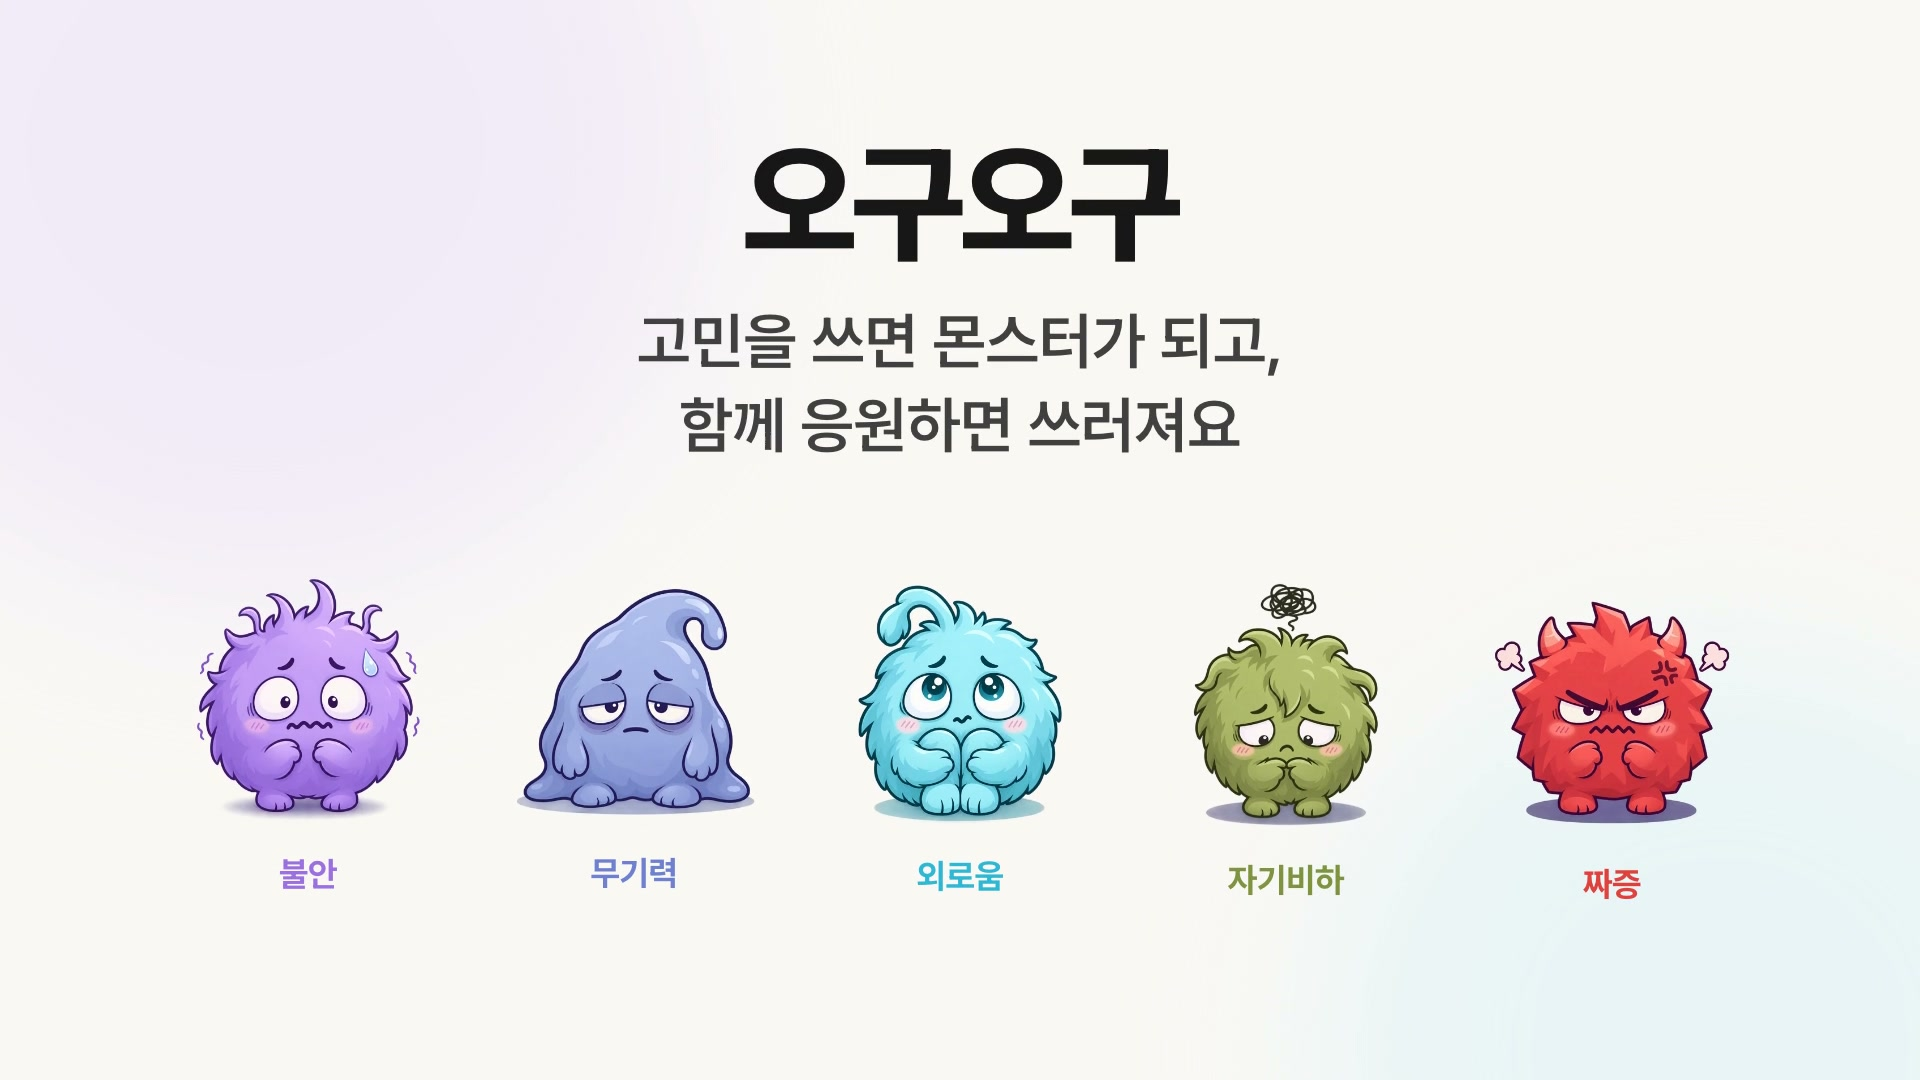
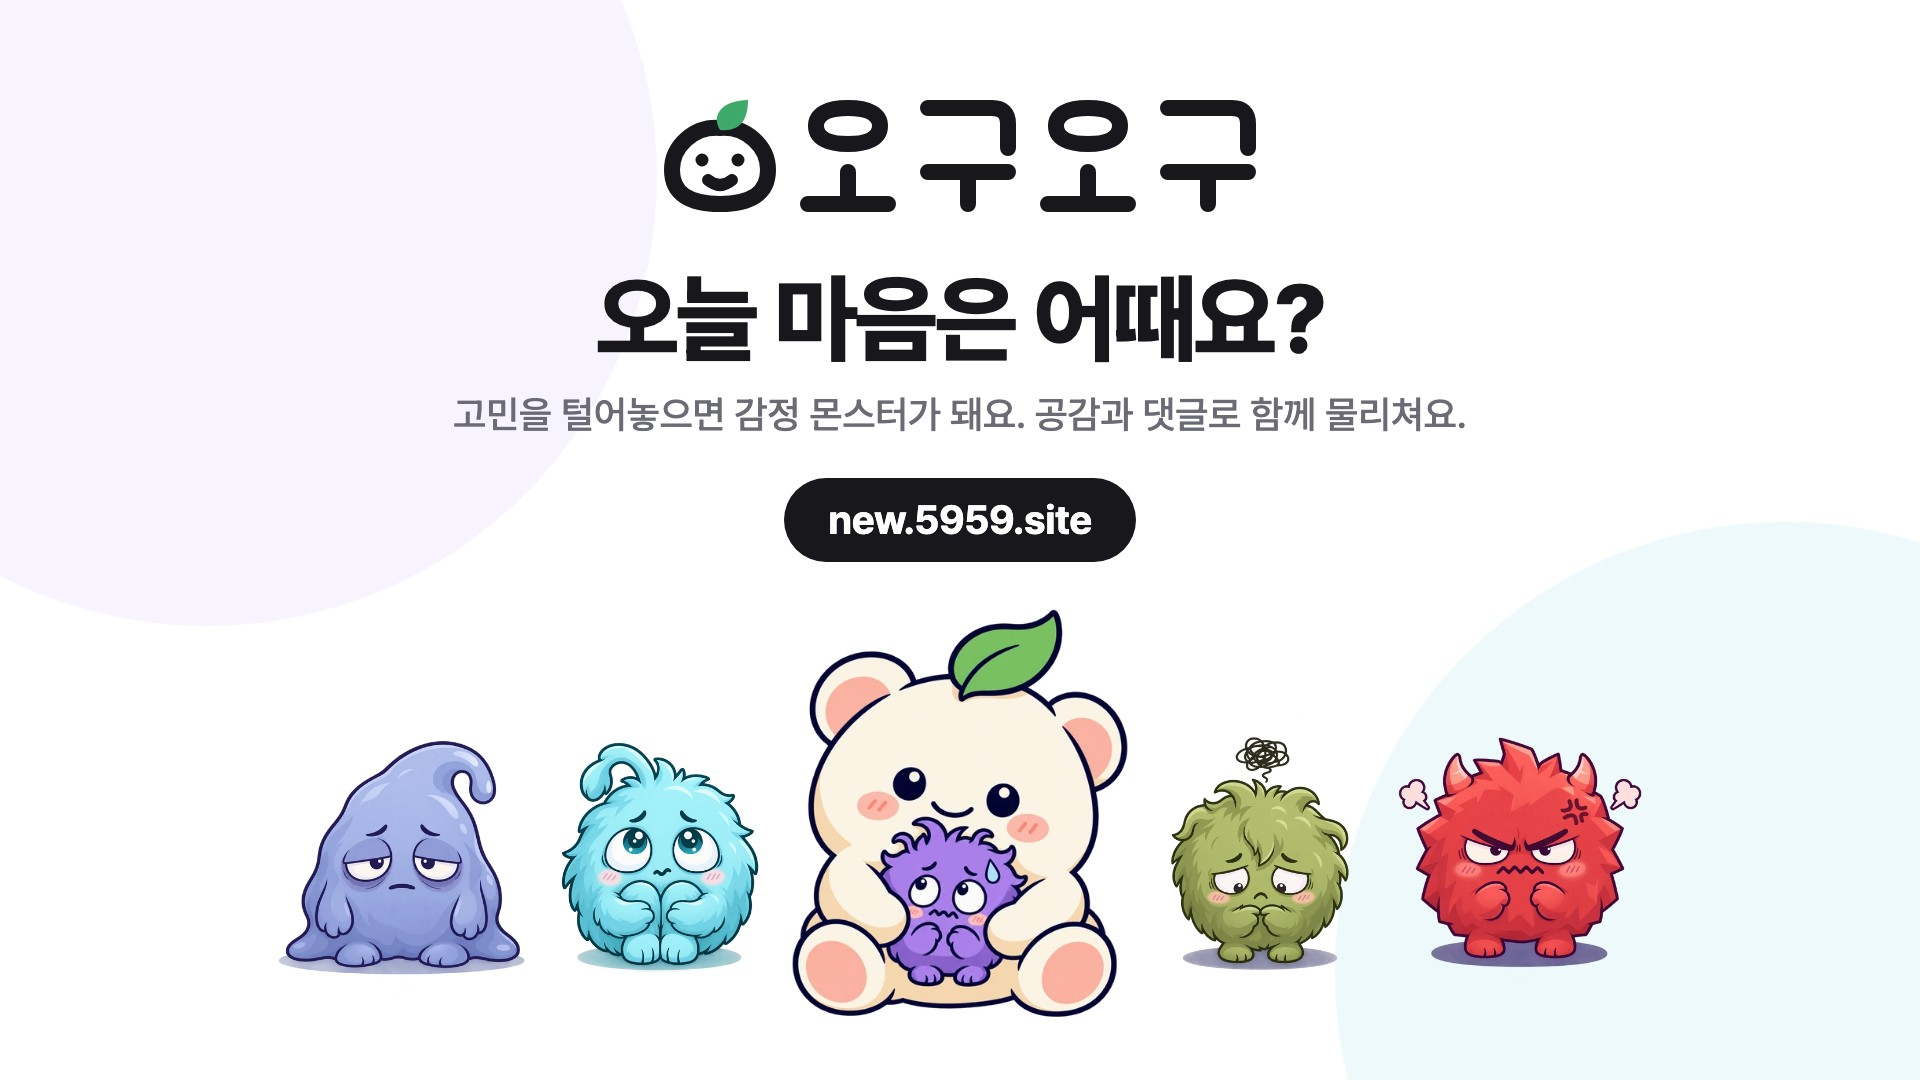
docs: README에 새 주소와 새 썸네일, 그동안 더한 기능을 적는다 (#77)
* docs: README에 새 주소와 새 썸네일, 그동안 더한 기능을 적는다

- 썸네일을 새 로고와 오구, new.5959.site가 보이는 그림으로 바꾸고 서비스로 잇는다
- AI 친구(009), 몬스터 도감(010), 비회원 둘러보기(011)를 기능 표에 더한다
- 배포 구성(웹은 Cloud Run, API와 DB는 Compute Engine)을 적고 GCP 문서로 잇는다
- 모듈 수와 스펙 범위를 지금 코드에 맞춘다

* docs: 소개 영상을 새 로고와 새 주소가 나오는 것으로 바꾼다

---------

Changed region(s): [[0.0938, 0.0917, 0.9062, 0.9472]]

diff --git a/README.md b/README.md
@@ -1,6 +1,6 @@
 <div align="center">
 
-<img src="docs/assets/intro/brag.jpg" alt="오구오구" width="100%" />
+<a href="https://new.5959.site"><img src="docs/assets/intro/brag.jpg" alt="오구오구. 오늘 마음은 어때요? new.5959.site" width="100%" /></a>
 
 # 🐾 오구오구 (5959)
 
@@ -9,6 +9,7 @@
 혼자 삼키기 어려운 고민을 익명으로 남기면<br>
 AI가 감정을 읽어 몬스터로 만들고, 함께 응원하며 그 몬스터를 물리쳐요.
 
+[<img src="https://img.shields.io/badge/지금_써_보기-new.5959.site-17171c?style=flat" />](https://new.5959.site)
 [<img src="https://img.shields.io/badge/원본_Backend-DDD--13--WEBBB__BE-6DB33F?style=flat&logo=springboot&logoColor=white" />](https://github.com/DDD-Community/DDD-13-WEBBB_BE)
 [<img src="https://img.shields.io/badge/원본_Frontend-DDD--13--WEBBB--FE-000000?style=flat&logo=nextdotjs&logoColor=white" />](https://github.com/DDD-Community/DDD-13-WEBBB-FE)
 
@@ -18,9 +19,9 @@ AI가 감정을 읽어 몬스터로 만들고, 함께 응원하며 그 몬스터
 
 ## 🎬 소개 영상
 
-https://github.com/user-attachments/assets/66e48d11-21bb-498c-986b-3680f20c1de7
+https://github.com/user-attachments/assets/f29e4b90-98a0-4528-bc08-66e4713ca181
 
-고민 한 줄이 불안 몬스터가 되고, 공감과 댓글이 HP를 깎고, 모두가 보스를 함께 물리치고, 월요일에 편지가 오기까지를 21초에 담았습니다.
+고민 한 줄이 불안 몬스터가 되고, 공감과 댓글이 HP를 깎아 쓰러뜨리고, 모두가 보스 한 마리를 함께 물리치기까지를 20초에 담았습니다.
 
 <br>
 
@@ -32,7 +33,8 @@ https://github.com/user-attachments/assets/66e48d11-21bb-498c-986b-3680f20c1de7
 
 > 👤 **[장현호](https://github.com/hyunolike)** (DDD 13기 WEBBB 팀 백엔드)
 
-- 다시 만든 코드는 [`apps/`](apps)에 있습니다. 여덟 개 마일스톤(M0~M7)을 스펙부터 쓰고 구현했습니다.
+- 다시 만든 서비스는 [new.5959.site](https://new.5959.site)에 열려 있습니다. 로그인하지 않아도 둘러보기로 최근 이야기를 볼 수 있습니다.
+- 다시 만든 코드는 [`apps/`](apps)에 있습니다. 여덟 개 마일스톤(M0~M7)을 스펙부터 쓰고 구현했고, 그 뒤에 AI 친구와 몬스터 도감, 비회원 둘러보기를 더했습니다.
 - 원본 서비스의 소개와 기술 스택, 구조, 팀원은 [원본 서비스 문서](docs/original-service.md)로 옮겼습니다. 원본 코드는 [`webbb-be/`](webbb-be)와 [`webbb-fe/`](webbb-fe)에 참고용으로 들어 있습니다.
 
 <br>
@@ -61,6 +63,9 @@ https://github.com/user-attachments/assets/66e48d11-21bb-498c-986b-3680f20c1de7
 | 보스 레이드 | 모든 회원이 보스 한 마리를 함께 공격합니다. 다른 회원의 공격이 바로 HP에 보입니다 | [006](specs/006-raid/spec.md) |
 | 비슷한 고민 추천 | 글 아래에 비슷한 다른 회원의 고민을 보여 줍니다 | [007](specs/007-recommend/spec.md) |
 | 주간 리포트 | 월요일에 지난주의 감정과 받은 응원을 돌아보고, AI가 쓴 짧은 편지를 받습니다 | [008](specs/008-weekly-report/spec.md) |
+| AI 친구 | 10분 동안 사람의 댓글이 없는 글에 AI 친구 한 명이 댓글과 공감을 하나씩 남깁니다. 닉네임 옆에 AI라고 항상 표시합니다 | [009](specs/009-ai-companions/spec.md) |
+| 몬스터 도감 | 물리친 몬스터가 카드 한 장이 됩니다. 내 글의 몬스터와 함께 물리친 다른 회원의 몬스터를 모아 봅니다 | [010](specs/010-monster-cards/spec.md) |
+| 비회원 둘러보기 | 로그인하지 않아도 최근 이야기를 닉네임 없이 봅니다 | [011](specs/011-guest-feed/spec.md) |
 | 가입과 로그인 | 이메일과 카카오, 구글 로그인. 토큰은 브라우저 스크립트가 읽지 못하는 쿠키에만 둡니다 | [002](specs/002-auth/spec.md) |
 
 기능마다 어떻게 만들었고 무엇을 쟀는지는 [기능별 설명](docs/features.md)에 풀어 썼습니다.
@@ -81,7 +86,7 @@ flowchart LR
     subgraph Api["apps/api · Spring Boot 4 · Spring Modulith"]
         direction TB
         Core["post · emotion · monster<br/>feed · member"]
-        More["notification · safety · raid<br/>recommend · report"]
+        More["notification · safety · raid<br/>recommend · report · companion"]
         AI["ai<br/>감정 분석 · 위험 분류<br/>임베딩 · 편지"]
     end
 
@@ -100,7 +105,7 @@ flowchart LR
 
 - **AI가 내려가도 핵심 흐름은 돕니다.** 감정 분석, 위험 분류, 임베딩, 편지는 모두 글 저장이 끝난 뒤에 따로 돌고, 실패하면 간격을 늘려 다시 시도합니다. AI 없이도 글쓰기, 키워드 위험 감지, 리포트 발행은 그대로 됩니다.
 - **위기 글은 한 번도 공개되지 않습니다.** 목록에 있는 위기 표현은 글 저장과 같은 트랜잭션에서 걸러 숨깁니다. 숨김 규칙은 피드, 추천, 알림이 모두 한곳의 조건을 씁니다.
-- **모듈의 경계를 테스트가 지킵니다.** 모듈 12개가 정해진 방향으로만 의존하고, 다른 모듈의 테이블을 직접 읽지 않습니다. 어기면 `ModularityTests`가 실패합니다.
+- **모듈의 경계를 테스트가 지킵니다.** 모듈 13개가 정해진 방향으로만 의존하고, 다른 모듈의 테이블을 직접 읽지 않습니다. 어기면 `ModularityTests`가 실패합니다.
 - **"한 번만"은 잠금이 아니라 제약이 지킵니다.** 살아 있는 보스 하나, 회원과 주마다 리포트 하나, 알림 하나를 유일 제약과 멱등 키로 보장합니다.
 
 전체 설계는 [아키텍처 문서](docs/architecture/overview.md)에, 결정과 그 까닭은 [ADR](docs/adr)에 있습니다.
@@ -144,6 +149,7 @@ flowchart LR
 | 품질 | ktlint, detekt, ESLint, Prettier, steiger(FSD 규칙) |
 | 진행 방식 | GitHub Spec Kit(스펙 → 설계 → 작업 → 구현), OpenAPI 계약 우선 |
 | CI | GitHub Actions(API, 웹, 실제 API를 띄운 e2e), release-please |
+| 배포 | GCP(웹은 Cloud Run, API와 DB는 Compute Engine 한 대), Terraform, Caddy |
 
 <br>
 
@@ -155,9 +161,9 @@ flowchart LR
 │   ├── api/        Kotlin, Spring Boot 4, Spring Modulith
 │   └── web/        Next.js 16, Feature-Sliced Design
 ├── contracts/      OpenAPI 계약 (웹의 타입을 여기서 만든다)
-├── specs/          기능별 스펙, 설계, 작업 목록 (001~008)
+├── specs/          기능별 스펙, 설계, 작업 목록 (001~011)
 ├── docs/           아키텍처, ADR, 측정 기록
-├── infra/          운영 compose, Caddy, 백업과 부하 테스트 스크립트
+├── infra/          운영 compose, Caddy, GCP Terraform, 백업과 부하 테스트 스크립트
 ├── webbb-be/       원본 백엔드 (참고용)
 └── webbb-fe/       원본 프론트엔드 (참고용)
 ```
@@ -179,6 +185,17 @@ cd apps/api && SPRING_PROFILES_ACTIVE=local,e2e ./gradlew bootRun
 
 <br>
 
+## 🌐 배포
+
+| 무엇을 | 어디에 | 어떻게 |
+| --- | --- | --- |
+| 웹 | [new.5959.site](https://new.5959.site), Cloud Run | `main`에 병합되고 CI가 통과하면 자동으로 배포합니다 |
+| API와 DB | Compute Engine 한 대(Caddy, Spring Boot, PostgreSQL, Redis) | 이미지를 빌드한 뒤 손으로 배포합니다 |
+
+기반 자원과 도메인 연결은 Terraform으로 관리합니다. 웹의 주소 하나를 바꾸면 로그인 콜백과 실시간 알림이 허용하는 출처가 함께 바뀝니다. 절차는 [GCP 배포 문서](infra/gcp/README.md)에 있습니다.
+
+<br>
+
 ## 📚 문서
 
 | 문서 | 내용 |
@@ -189,6 +206,7 @@ cd apps/api && SPRING_PROFILES_ACTIVE=local,e2e ./gradlew bootRun
 | [스펙](specs) | 마일스톤마다의 요구사항, 설계, 검증 절차 |
 | [개발 원칙](.specify/memory/constitution.md) | 여섯 가지 원칙 |
 | [API 가이드](apps/api/AGENTS.md), [웹 구조](apps/web/docs/ARCHITECTURE.md) | 모듈과 슬라이스마다의 규칙 |
+| [GCP 배포](infra/gcp/README.md), [웹 배포와 복구](infra/gcp/WEB-DEPLOY.md) | 기반 자원, 도메인 연결, 자동 배포와 되돌리기 |
 | [레이드 부하 테스트](docs/benchmarks/raid-attack.md) | 가상 사용자 500명 측정 기록 |
 | [원본 서비스](docs/original-service.md) | DDD 13기 WEBBB 팀의 원본 소개, 기술 스택, 구조, 팀원 |
 
